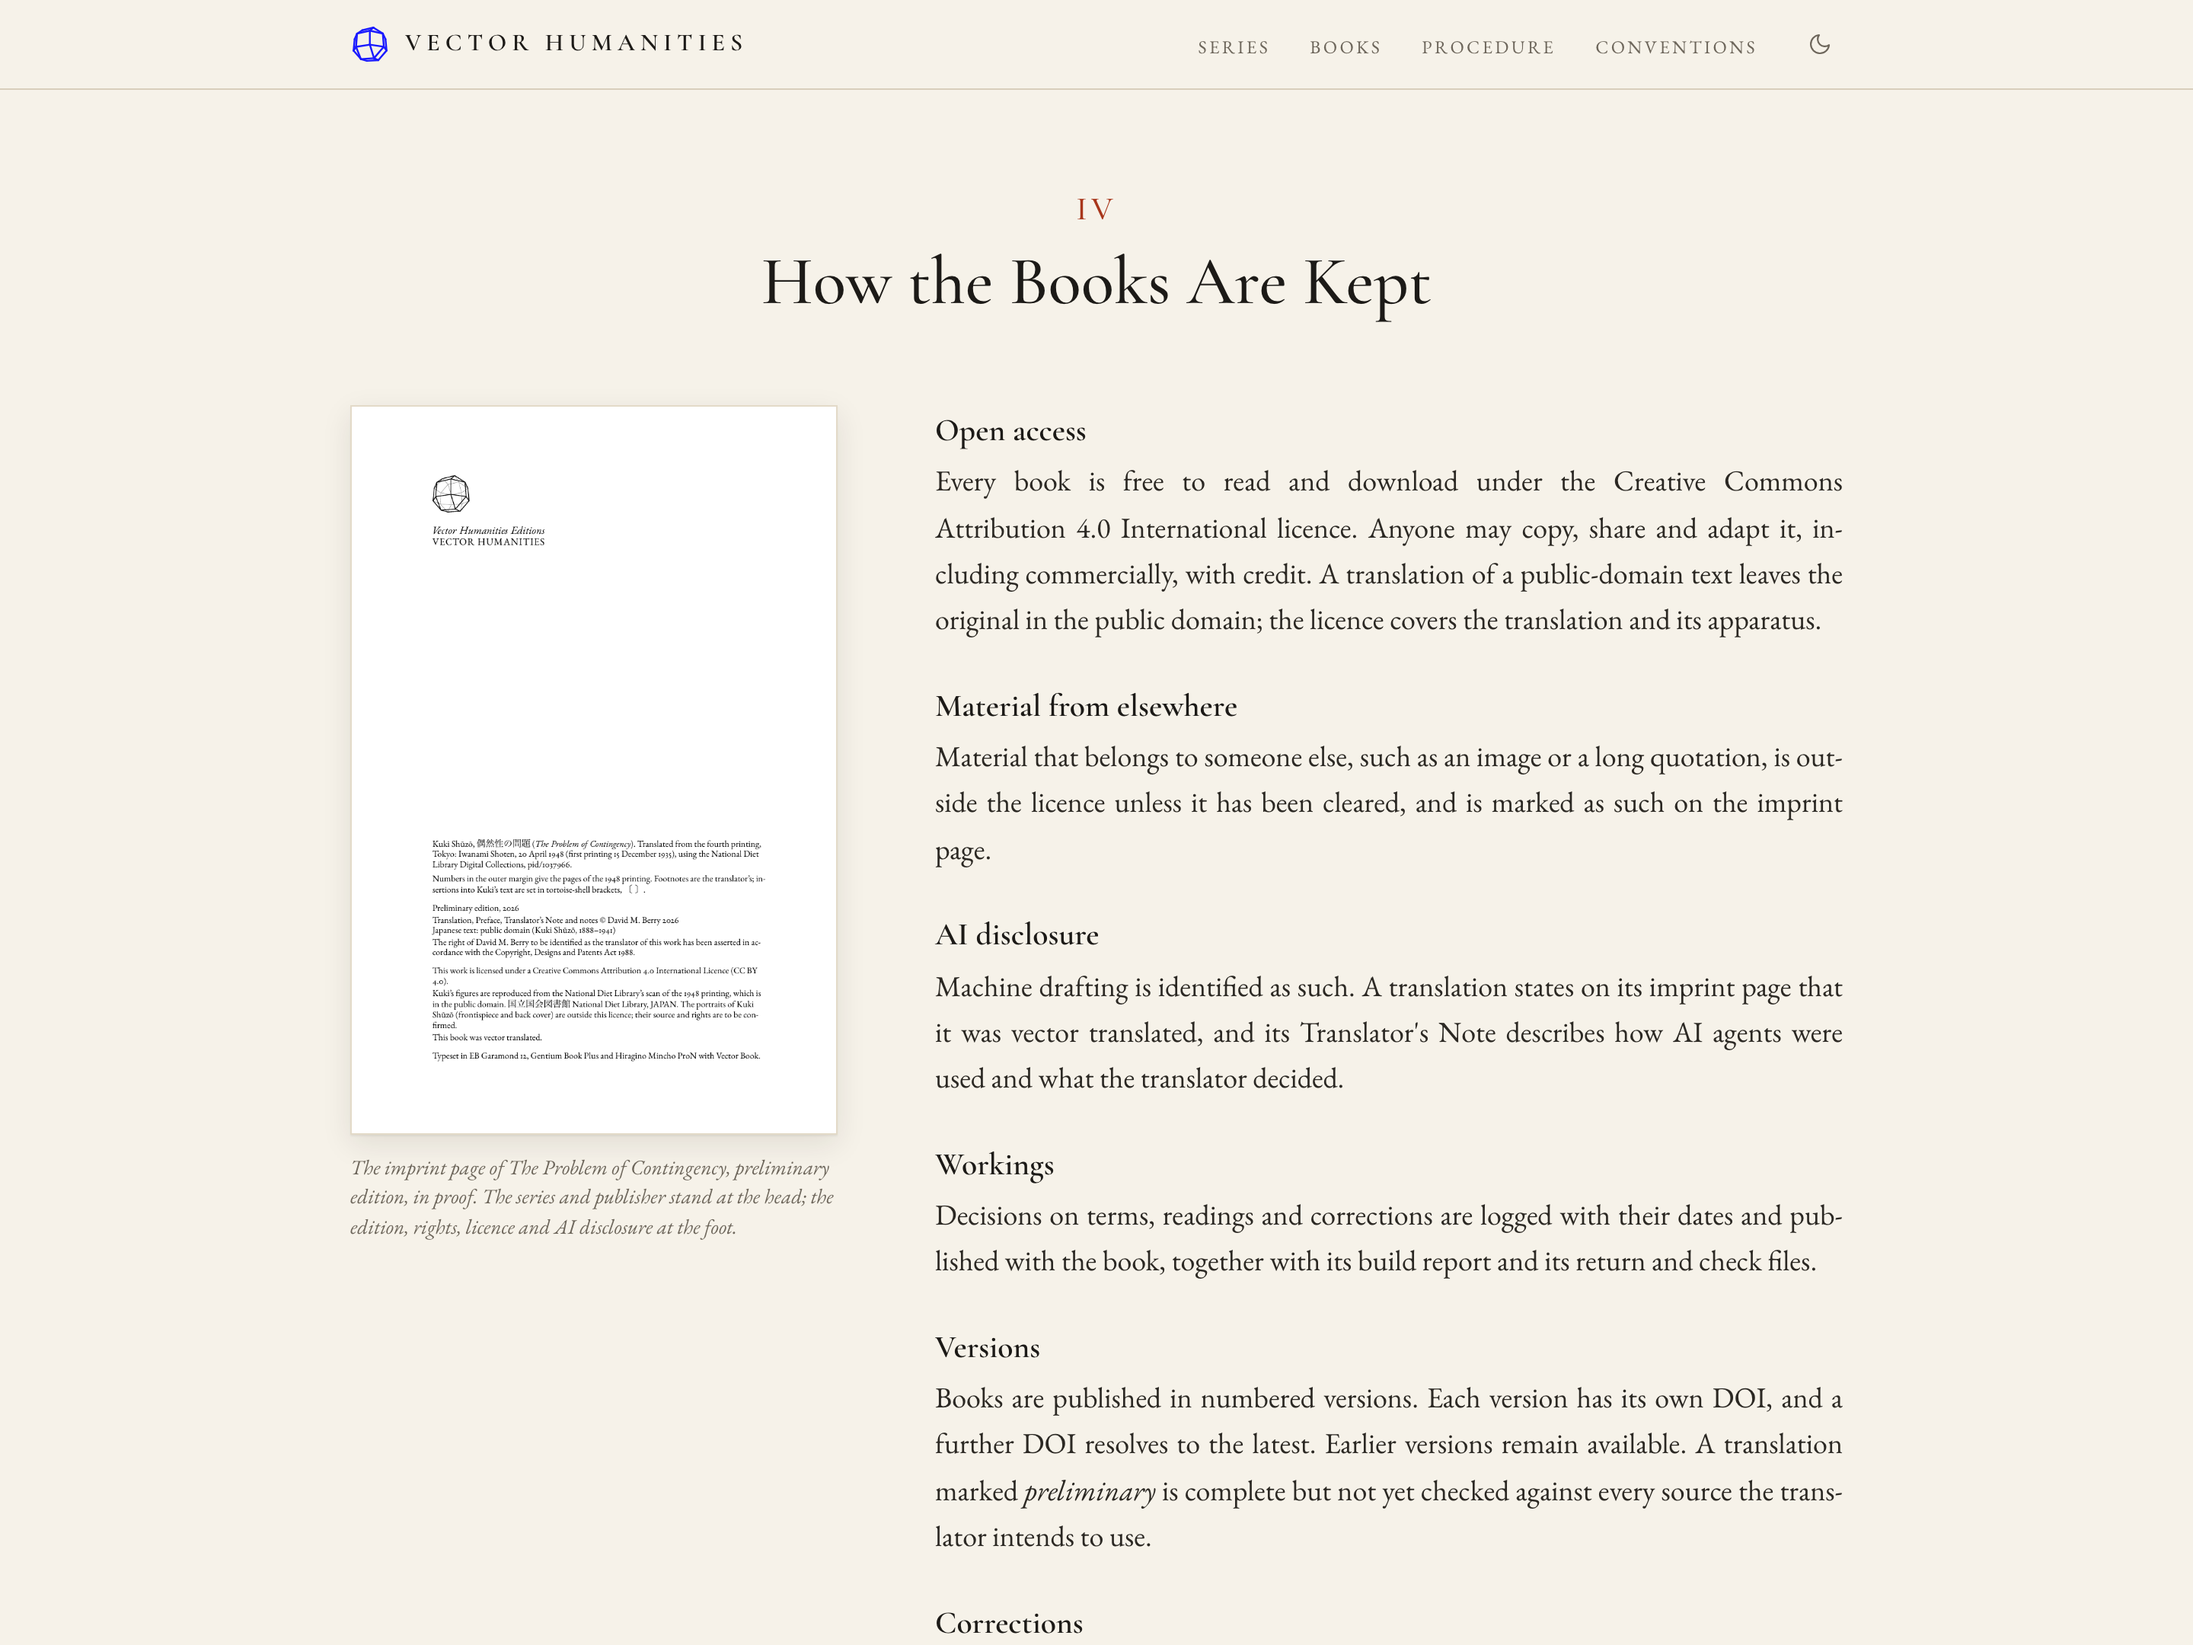
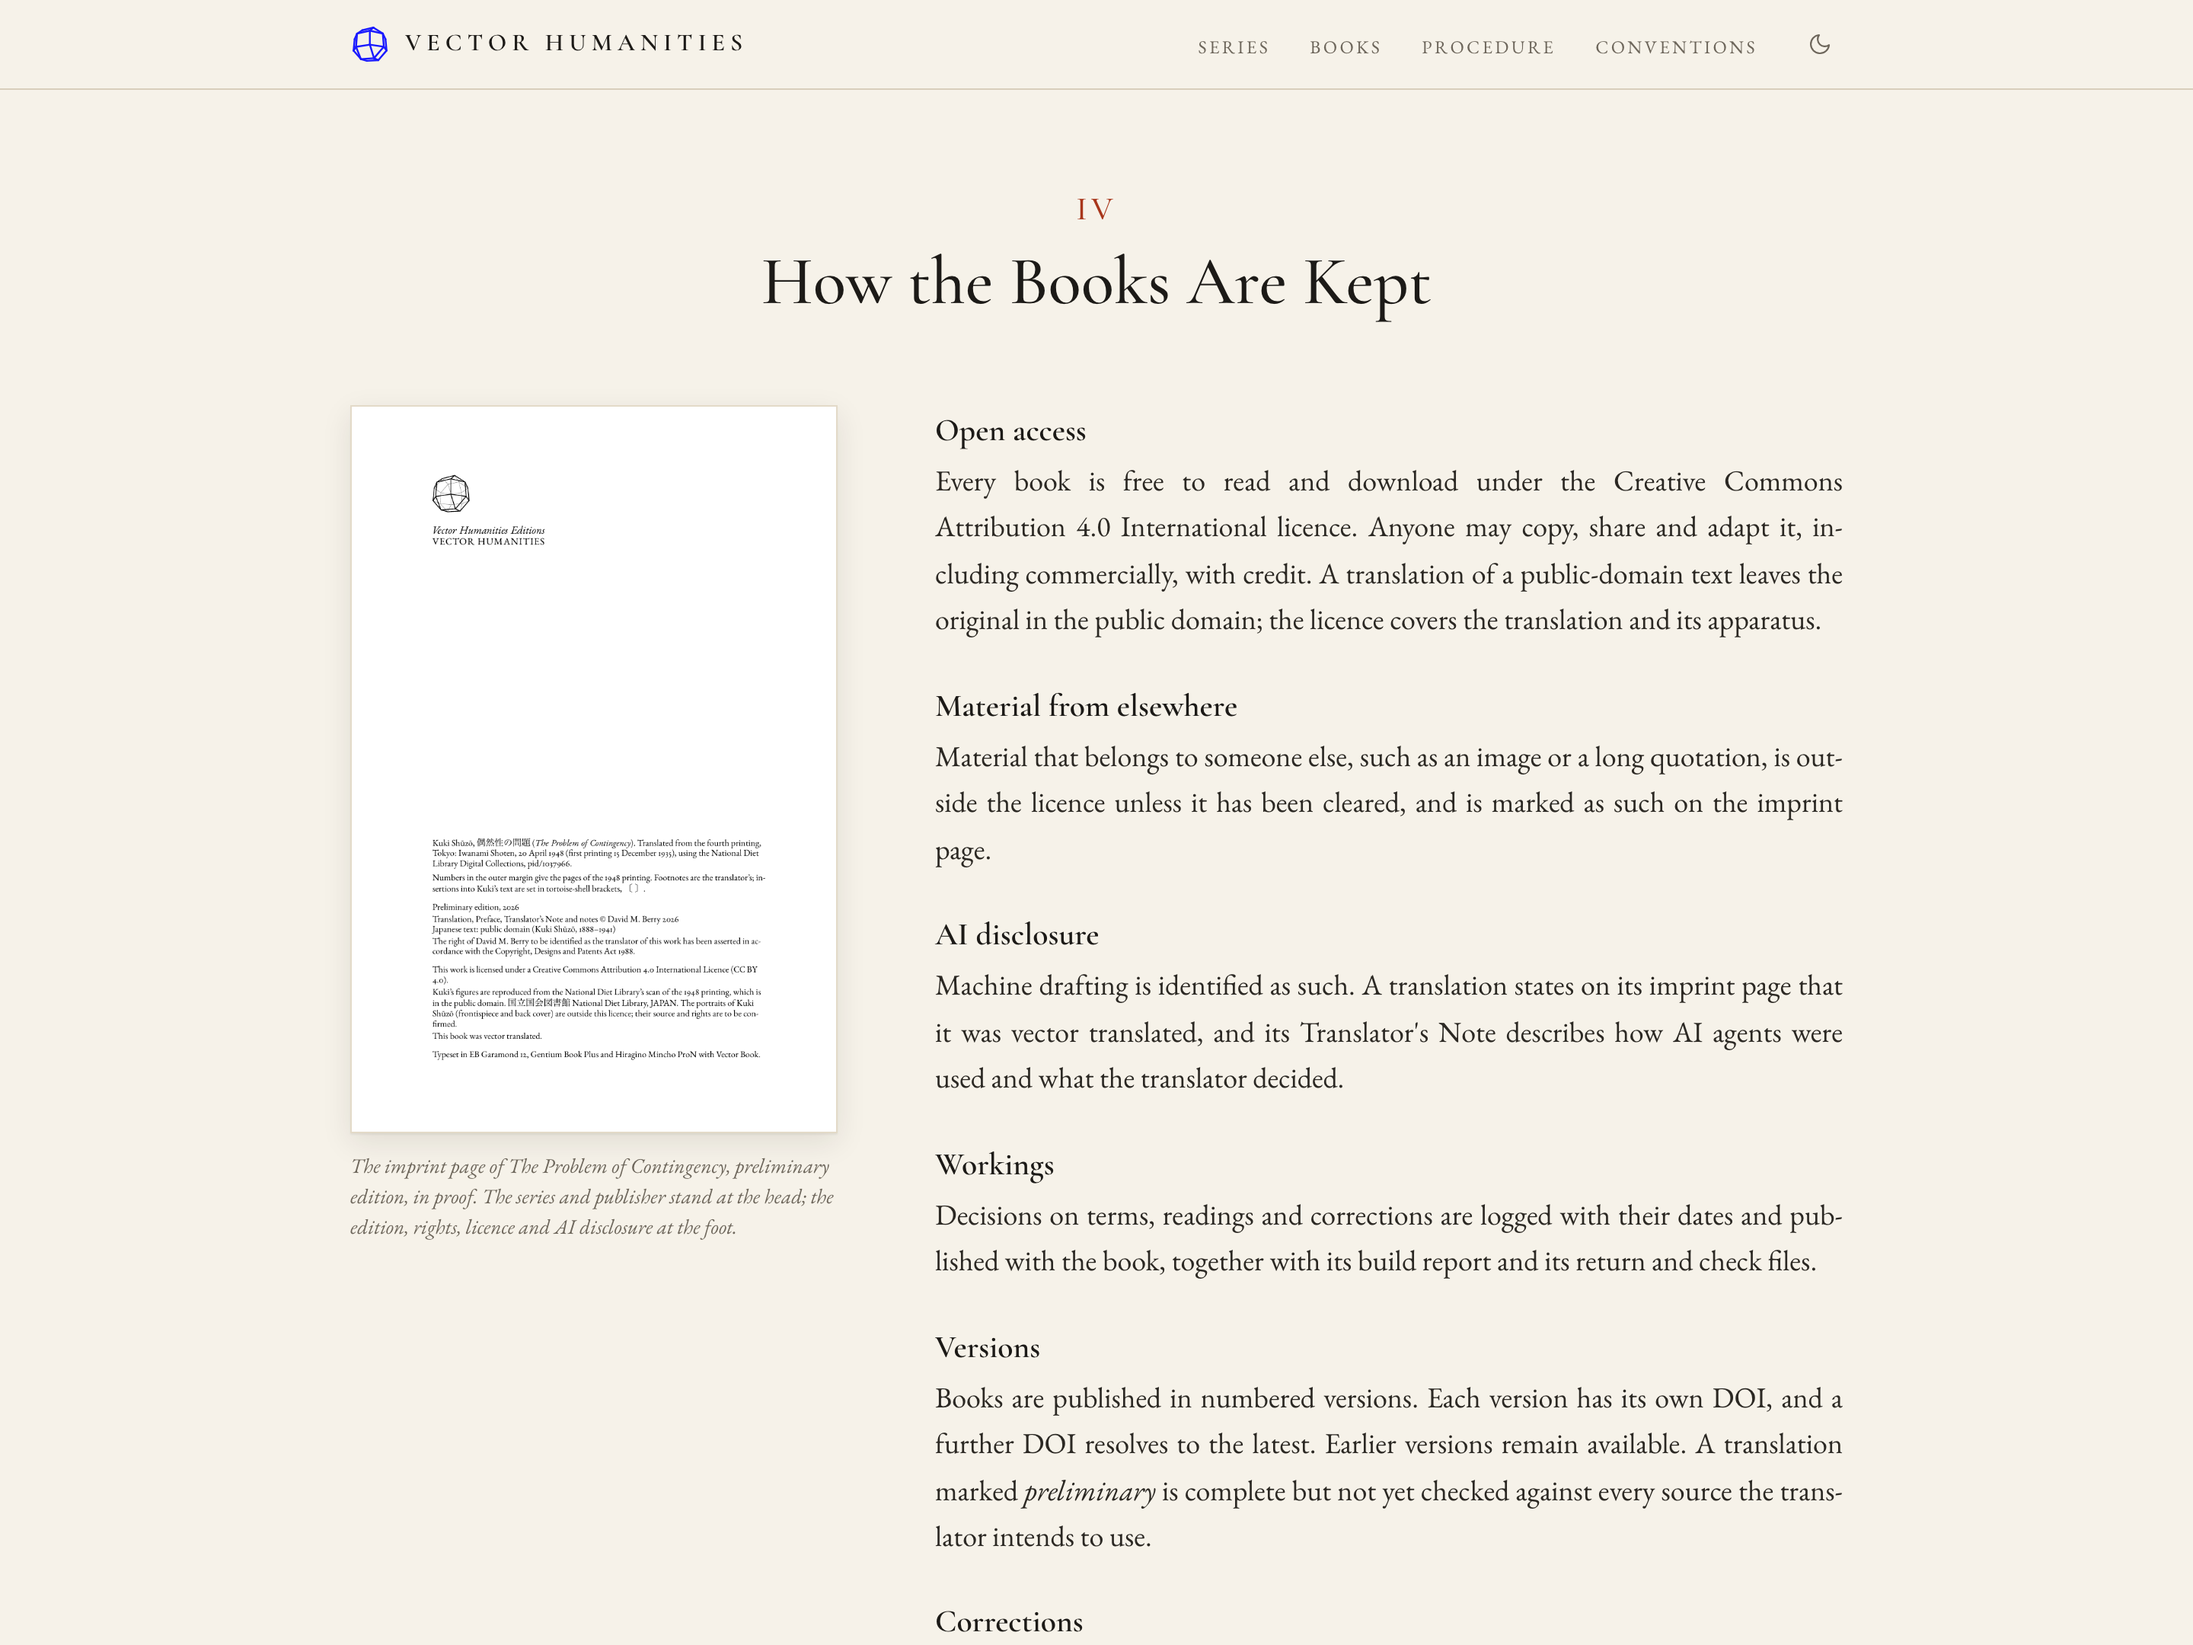
The Series: each series' design, with sample pages to scale (classic; organic or vectors)

diff --git a/index.html b/index.html
@@ -142,6 +142,14 @@
     .series p { margin: 0 0 1em; hyphens: manual; }
     .series .list { border-top: 1px solid var(--rule-soft); padding-top: 14px; margin-top: 22px; font-size: .95rem; color: var(--muted); text-align: left; }
     .series .list b { font-weight: 400; font-variant-caps: all-small-caps; letter-spacing: .1em; color: var(--ink); }
+    .series .samples { display: flex; justify-content: center; align-items: flex-end; gap: 24px; margin: 26px 0 8px; }
+    .series .samples figure { margin: 0; }
+    .series .samples .classic { width: 172px; }
+    .series .samples .organic { width: 143px; }
+    .series .samples .vectors { width: 154px; }
+    .series .samples img { display: block; width: 100%; height: auto; border: 1px solid #e3dac8; box-shadow: var(--shadow); background: #fff; }
+    .series .samples figcaption { margin-top: 10px; text-align: center; font-size: .95rem; font-variant-caps: all-small-caps; letter-spacing: .12em; color: var(--muted); }
+    .series-note { margin: 40px auto 0; max-width: 560px; text-align: center; font-size: .9rem; font-style: italic; color: var(--muted); }
     .held { text-align: center; color: var(--muted); font-style: italic; margin: 56px 0 0; }
 
     /* Catalogue */
@@ -289,6 +297,10 @@
           <p class="kind">Translations</p>
           <p>Translations made by the vector translation method. AI agents draft the text from page images twice, once as a literal version, sentence by sentence, and once as readable prose, under a translator who writes the brief, settles the terms and corrects. Each version is checked against the other and against the page images.</p>
           <p>Every translation names its source edition, the scans it works from, and their rights status.</p>
+          <p>Set in Vector Book's <i>classic</i> design: EB Garamond on a 156 × 234 mm page, with the page numbers of the source edition in the outer margin.</p>
+          <div class="samples">
+            <figure class="classic"><img src="assets/design-classic.jpg" alt="A chapter opening in the classic design: a centred chapter title in spaced small capitals over text in EB Garamond" width="427" height="640" loading="lazy"><figcaption>Classic</figcaption></figure>
+          </div>
           <p class="list"><b>In preparation</b> Kuki Shūzō, <i>The Problem of Contingency</i> · Florens Christian Rang, <i>Historical Psychology of Carnival</i></p>
         </article>
 
@@ -302,9 +314,15 @@
           <p class="kind">New work</p>
           <p>Short new works commissioned by the series: essays and studies in the humanities, written in or about the vector medium.</p>
           <p>Authors keep their copyright, grant the series a non-exclusive right to publish, and release the work under CC BY 4.0. A short agreement records what the author warrants and how a correction or withdrawal is handled.</p>
+          <p>Each book is set in one of two Vector Book designs, chosen by the author: <i>organic</i>, a 130 × 190 mm paperback in Fira Sans Condensed with a generated field page before each chapter, or <i>vectors</i>, a 140 × 216 mm book in IBM Plex Serif with generated vector imagery at each chapter.</p>
+          <div class="samples">
+            <figure class="organic"><img src="assets/design-organic.jpg" alt="A chapter opening in the organic design: the title in huge stacked black capitals over text in Fira Sans Condensed" width="438" height="640" loading="lazy"><figcaption>Organic</figcaption></figure>
+            <figure class="vectors"><img src="assets/design-vectors.jpg" alt="A chapter opening in the vectors design: the title set large over a band of coloured streamlines on a grid, with text in IBM Plex Serif below" width="415" height="640" loading="lazy"><figcaption>Vectors</figcaption></figure>
+          </div>
           <p class="list"><b>First titles</b> to be commissioned.</p>
         </article>
       </div>
+      <p class="series-note">Sample pages: the opening of chapter 2 of the Vector Book specimen, in each series' design, shown to scale.</p>
     </div>
   </section>
 

diff --git a/README.md b/README.md
@@ -24,12 +24,12 @@ Every book is free to read and download under the [Creative Commons Attribution 
 
 ## The series
 
-<p align="center"><img src="docs/img/series.png" alt="The two series side by side, each with the head of its imprint page: the mark, the series name in italic, and VECTOR HUMANITIES in capitals" width="860"></p>
+<p align="center"><img src="docs/img/series.png" alt="The two series side by side, each with the head of its imprint page and a sample page in its design: classic for Vector Humanities Editions, organic and vectors for Contingencies" width="860"></p>
 
-| Series | Publishes | Imprint page |
-|---|---|---|
-| *Vector Humanities Editions* | Translations by the vector translation method, each naming its source edition, the scans it works from, and their rights status | "This book was vector translated." The Translator's Note describes how AI agents were used and what the translator decided |
-| *Contingencies* | New short works commissioned by the series. Authors keep their copyright, grant the series a non-exclusive right to publish, and release the work under CC BY 4.0 | How AI was used is stated in the preface |
+| Series | Publishes | Design | Imprint page |
+|---|---|---|---|
+| *Vector Humanities Editions* | Translations by the vector translation method, each naming its source edition, the scans it works from, and their rights status | Vector Book's *classic* design | "This book was vector translated." The Translator's Note describes how AI agents were used and what the translator decided |
+| *Contingencies* | New short works commissioned by the series. Authors keep their copyright, grant the series a non-exclusive right to publish, and release the work under CC BY 4.0 | *organic* or *vectors*, one per book, chosen by the author | How AI was used is stated in the preface |
 
 ## Books in preparation
 
